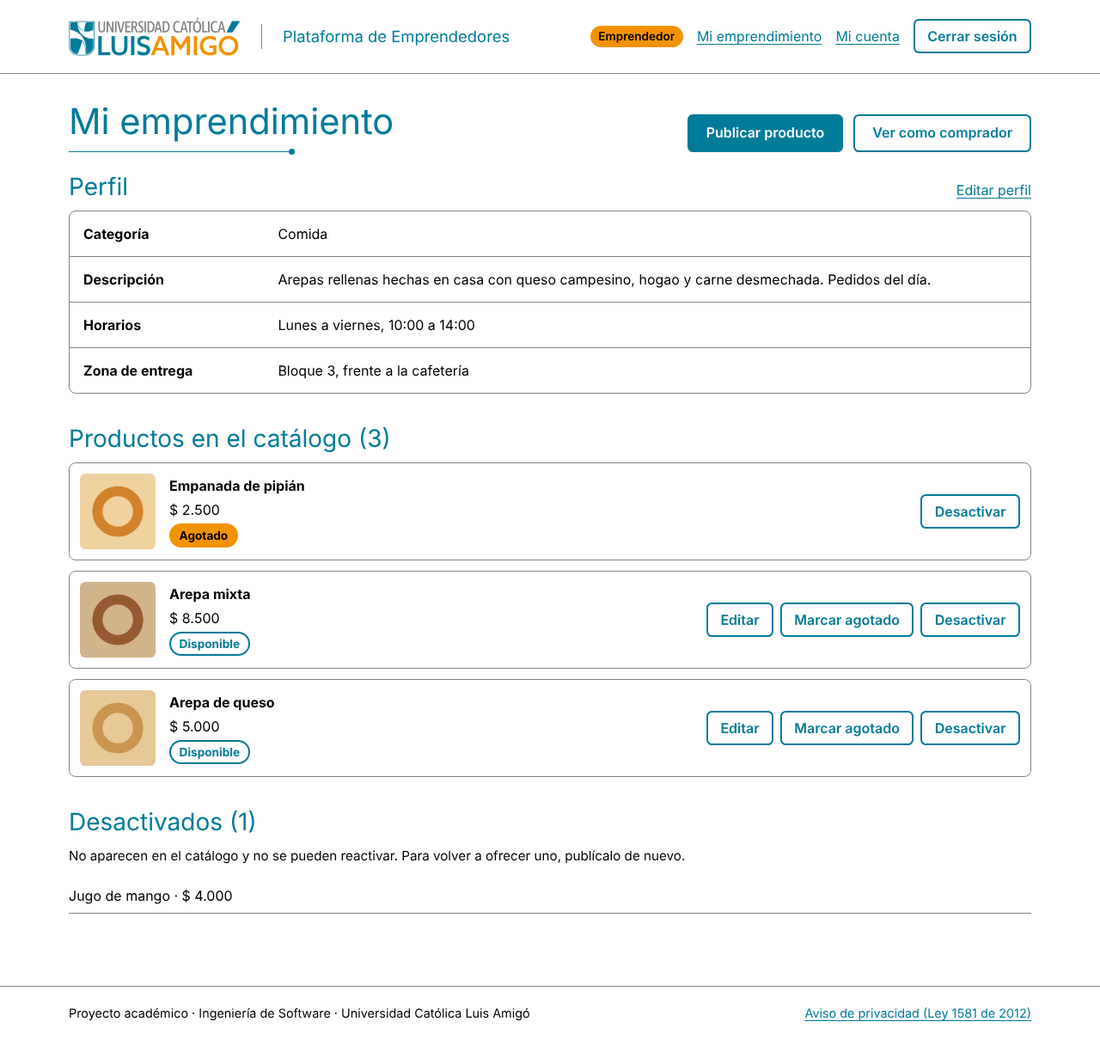
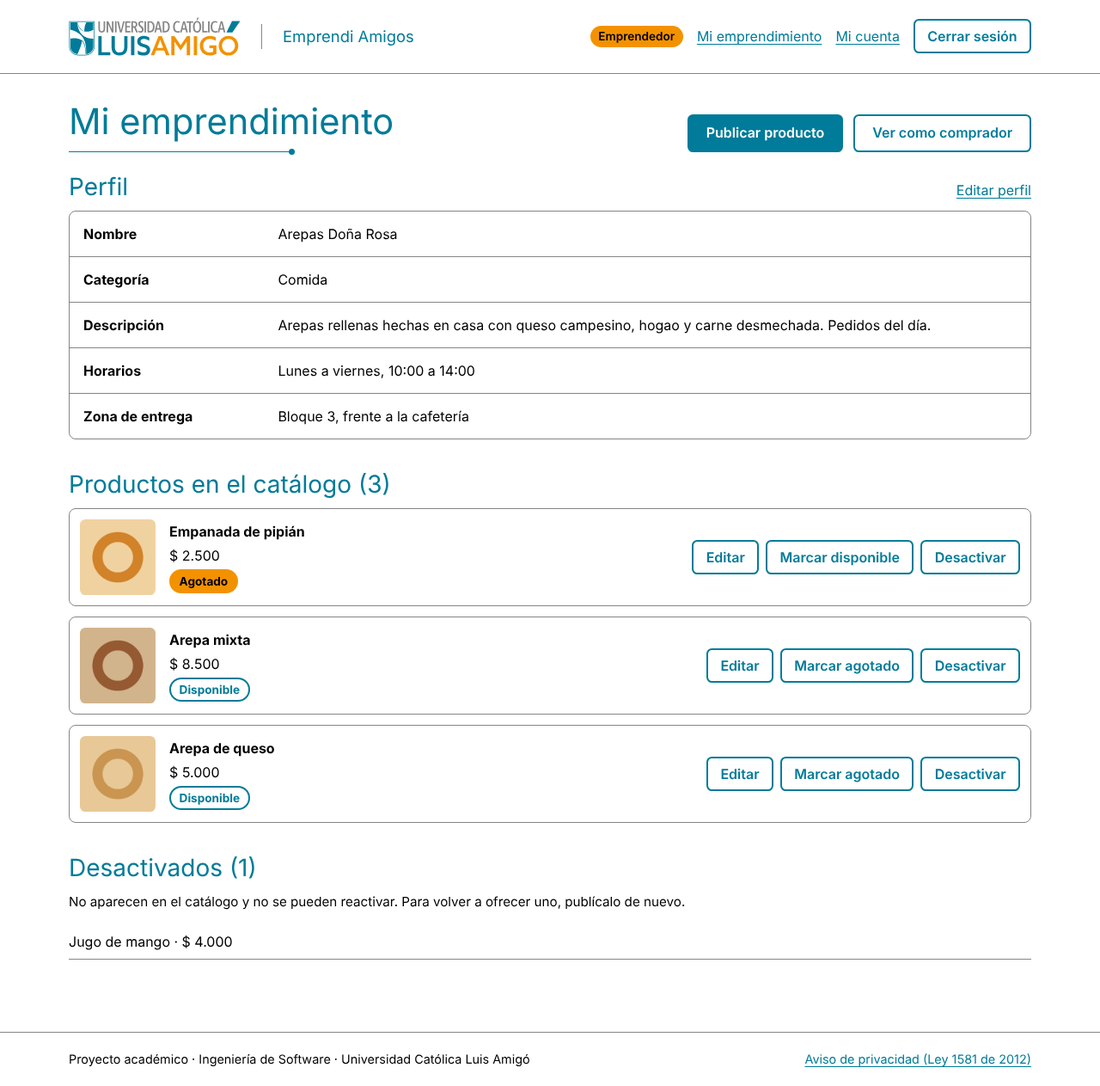
Docs: registro de cambios CC-01 a CC-05, ES1 v2 y documentos de E1 y E2 actualizados

diff --git a/docs/epica-2/EPICA-2.md b/docs/epica-2/EPICA-2.md
@@ -2,7 +2,7 @@
 
 **Proyecto:** Plataforma de Emprendedores (MVP) · Universidad Católica Luis Amigó
 **Fuentes:** Entregable 1 (HU-04 a HU-06, RF-05 a RF-08, RNF), Entregable 2 (CU-04 a CU-06, diagramas A2, ES1 y S3, modelo de dominio, reglas RN-05 a RN-09, decisión D5) y *Manual de Identidad Visual* versión 02.
-**Estado:** entregada para revisión. No se ha iniciado la Épica 3.
+**Estado:** entregada para revisión, con los cambios aprobados el 06/11/2026: CC-02 (reactivación), CC-03 (nombre del emprendimiento) y CC-04 (plataforma **Emprendi Amigos**). Ver la sección 8 y el [registro de cambios](../registro-de-cambios.md). No se ha iniciado la Épica 3.
 
 ---
 
@@ -47,22 +47,23 @@ Cuando exista el catálogo, los casos CP-07.x de la Épica 3 repetirán la verif
 | Clase del diagrama | Código | Nota |
 |---|---|---|
 | `Categoria(nombre)` | `Categoria.nombre` | Se crean con una migración: Comida, Artesanías, Videojuegos, Ocio y Otros |
-| `Emprendimiento(descripcion, horarios, zonaEntrega)` | `descripcion` (500), `horarios` (120), `zona_entrega` (120), `categoria`, `propietario` | Usuario 1 — 0..1 Emprendimiento (S-2): `OneToOneField` |
+| `Emprendimiento(nombre, descripcion, horarios, zonaEntrega)` | `nombre` (80, CC-03), `descripcion` (500), `horarios` (120), `zona_entrega` (120), `categoria`, `propietario` | Usuario 1 — 0..1 Emprendimiento (S-2): `OneToOneField` |
 | `Producto(nombre, foto, precioReferencia, estado)` | `nombre` (80), `foto`, `precio_referencia` (pesos enteros), `estado`, `codigo` | `codigo` es un UUID para las rutas. `existencias` y `umbralStockBajo` se agregan en E5 |
 | `EstadoProducto` | `DISPONIBLE`, `AGOTADO`, `DESACTIVADO` | Estado inicial: `DISPONIBLE` |
-| Operaciones `crearPerfil()`, `editarPerfil()`, `publicar()`, `editar()`, `marcarAgotado()`, `desactivar()` | `servicios.guardar_perfil`, `publicar_producto`, `editar_producto`, `marcar_agotado`, `desactivar_producto` | Las transiciones se validan en el modelo |
+| Operaciones `crearPerfil()`, `editarPerfil()`, `publicar()`, `editar()`, `marcarAgotado()`, `marcarDisponible()` (CC-02), `desactivar()` | `servicios.guardar_perfil`, `publicar_producto`, `editar_producto`, `marcar_agotado`, `marcar_disponible`, `desactivar_producto` | Las transiciones se validan en el modelo |
 
-### 2.2 Diagrama de estados ES1 implementado
+### 2.2 Diagrama de estados ES1 implementado (versión 2, con CC-02)
 
 | Origen | Evento | Destino | Dónde |
 |---|---|---|---|
 | (inicio) | Publicar producto | Disponible | `publicar_producto` |
-| Disponible | Editar (por ejemplo, el precio) | Disponible | `Producto.validar_edicion` |
+| Disponible o Agotado | Editar (por ejemplo, el precio) | El mismo estado | `Producto.validar_edicion` |
 | Disponible | Marcar agotado | Agotado | `Producto.marcar_agotado` |
+| Agotado | Marcar disponible (CC-02) | Disponible | `Producto.marcar_disponible` |
 | Disponible o Agotado | Desactivar | Desactivado | `Producto.desactivar` (con confirmación) |
-| Agotado o Desactivado | Cualquier otra acción | — | Se rechaza con un mensaje (`TransicionNoPermitida`) |
+| Desactivado | Cualquier acción | — | Se rechaza con un mensaje (`TransicionNoPermitida`) |
 
-Como dice la nota de ES1, el Entregable 1 no define una reactivación. Por eso un producto agotado no vuelve a *Disponible* y uno desactivado no cambia más. Ver el punto 1 de la sección 7.1.
+*Desactivado* sigue siendo definitivo: así el dueño no puede deshacer una desactivación del administrador (HU-22). El diagrama actualizado está en [`docs/diagramas/ES1-producto-v2.puml`](../diagramas/ES1-producto-v2.puml) y reemplaza la figura 7 del Entregable 2.
 
 La salida de inventario que deja las existencias en 0 (HU-16) usará `marcar_agotado` cuando se construya E5.
 
@@ -81,6 +82,7 @@ La salida de inventario que deja las existencias en 0 (HU-16) usará `marcar_ago
 | `/emprendimiento/productos/nuevo/` | GET, POST | HU-05 · RF-06 |
 | `/emprendimiento/productos/<código>/editar/` | GET, POST | HU-06 · RF-07 |
 | `/emprendimiento/productos/<código>/agotado/` | POST | HU-06 · RF-08 |
+| `/emprendimiento/productos/<código>/disponible/` | POST | CC-02 · RF-08 |
 | `/emprendimiento/productos/<código>/desactivar/` | GET (confirmar), POST | HU-06 · RF-08 |
 
 Todas exigen el rol Emprendedor. Un comprador o un administrador reciben 403; sin sesión, se pide iniciarla.
@@ -93,10 +95,10 @@ Todas exigen el rol Emprendedor. Un comprador o un administrador reciben 403; si
 
 | RF | Requerimiento | Cómo se cumple | Prueba |
 |---|---|---|---|
-| RF-05 | Crear el perfil del emprendimiento (descripción, categoría, horarios y zona de entrega) | `PerfilForm` con los cuatro campos obligatorios (RN-06); un perfil por emprendedor; el mismo formulario edita | CP-04.1 a CP-04.3 |
+| RF-05 | Crear el perfil del emprendimiento (nombre —CC-03—, descripción, categoría, horarios y zona de entrega) | `PerfilForm` con los cinco campos obligatorios (RN-06); un perfil por emprendedor; el mismo formulario edita | CP-04.1 a CP-04.5 |
 | RF-06 | Publicar un producto con foto (hasta 5 MB) y precio de referencia | `ProductoForm` + `publicar_producto`. La foto se valida por tamaño y por contenido real (JPG, PNG o WebP). El precio se acepta como `5000`, `5.000` o `$ 5.000` y se rechaza si es negativo o tiene letras | CP-05.1 a CP-05.5 |
-| RF-07 | Editar un producto | `editar_producto`: nombre, precio y, de forma opcional, una foto nueva (la anterior se borra del almacenamiento) | CP-06.1 |
-| RF-08 | Desactivar un producto o marcarlo como agotado | `marcar_agotado` y `desactivar_producto`, según ES1 y solo por POST; la desactivación pide confirmación | CP-06.2, CP-06.3, CP-06.5 |
+| RF-07 | Editar un producto | `editar_producto`: nombre, precio y, de forma opcional, una foto nueva (la anterior se borra del almacenamiento). Con CC-02 también se editan los agotados | CP-06.1, CP-06.7 |
+| RF-08 | Desactivar un producto, marcarlo como agotado o (CC-02) volver a marcarlo disponible | `marcar_agotado`, `marcar_disponible` y `desactivar_producto`, según ES1 v2 y solo por POST; la desactivación pide confirmación | CP-06.2, CP-06.3, CP-06.5, CP-06.6 |
 
 ### 3.2 Requerimientos no funcionales
 
@@ -105,7 +107,7 @@ Todas exigen el rol Emprendedor. Un comprador o un administrador reciben 403; si
 | RNF-03 Compatibilidad | Must | Panel, formularios, vista previa y tarjetas responsive; verificado a 360, 768 y 1280 px sin desplazamiento horizontal | CP-RNF03 |
 | RNF-04 Seguridad | Must | CSRF en todos los formularios; cambios de estado solo por POST; se valida el contenido real de la foto (un HTML o SVG disfrazado de `.jpg` se rechaza) y se guarda siempre como JPEG con nombre aleatorio | CP-05.4, CP-06.5 |
 | RNF-05 Privacidad | Must | El emprendedor se identifica por la sesión; un producto ajeno responde 403 y no cambia; panel y vista previa muestran solo lo propio; las rutas usan un código no secuencial | CP-06.4, CP-RNF05 |
-| RNF-06 Cumplimiento legal | Must | Aviso de privacidad versión 1.1: incluye el perfil y los productos y su publicación en el catálogo. Antes de guardar cada foto se borran sus metadatos EXIF, incluida la ubicación GPS. El formulario del perfil avisa que será público. Una prueba falla si se agrega un dato no previsto en el modelo | CP-RNF06 |
+| RNF-06 Cumplimiento legal | Must | Aviso de privacidad versión 1.2: incluye el perfil (con su nombre) y los productos y su publicación en el catálogo. Antes de guardar cada foto se borran sus metadatos EXIF, incluida la ubicación GPS. El formulario del perfil avisa que será público. Una prueba falla si se agrega un dato no previsto en el modelo | CP-RNF06 |
 | RNF-08 Mantenibilidad | Must | Módulo propio `apps/perfil_productos`, commits por historia, documento de la épica y README actualizados | CP-RNF08 |
 | RNF-09 Escalabilidad | Should | Con 100 usuarios y 300 productos, el contrato del catálogo responde completo y el panel usa el mismo número de consultas con 10 o con más de 100 productos | CP-RNF09 |
 | RNF-11 Accesibilidad | Could | Cada foto tiene como texto alternativo el nombre del producto; los estados se leen como texto y no solo por color; cada campo tiene etiqueta; los botones repetidos nombran su producto para los lectores de pantalla | CP-RNF11 |
@@ -160,13 +162,15 @@ Los componentes nuevos usan solo los tokens de `static/css/marca.css`. La prueba
 
 | # | Supuesto (el Entregable 1 no lo define) | Decisión |
 |---|---|---|
-| S-E2-1 | Lista de categorías | Comida, Artesanías, Videojuegos y Ocio (nombradas en el alcance) más "Otros" por el "etc." |
-| S-E2-2 | Precio de 0 (punto abierto B.2) | Se acepta, porque RN-07 solo exige "no negativo" |
+| S-E2-1 | Lista de categorías | Comida, Artesanías, Videojuegos y Ocio (nombradas en el alcance) más "Otros" por el "etc.". **Confirmado (CC-05)** |
+| S-E2-2 | Precio de 0 (punto abierto B.2) | Se acepta, porque RN-07 solo exige "no negativo". **Confirmado (CC-05)** |
 | S-E2-3 | Formatos de foto | JPG, PNG y WebP; GIF y SVG no |
 | S-E2-4 | Longitudes máximas | Descripción 500, horarios 120, zona 120 y nombre del producto 80 caracteres |
 | S-E2-5 | Fotos en producción | `MEDIA_ROOT` configurable con `DJANGO_MEDIA_ROOT`; en el Sprint 4 se define quién las sirve (servidor web o almacenamiento de objetos) y un límite del cuerpo de la petición de unos 6 MB en el servidor web |
 
-### 6.1 Puntos que necesitan decisión del equipo
+### 6.1 Puntos que necesitaban decisión del equipo (resueltos el 06/11/2026)
+
+Los puntos 1 a 3 se aprobaron como CC-02 y CC-03 (sección 8). El punto 4 queda informado: Mi cuenta avisa a quien aceptó una versión anterior del aviso, que ahora es la 1.2.
 
 1. **Reactivación (punto abierto B.2 y nota de ES1).** Hoy un producto agotado no puede volver a *Disponible*, así que quien vende comida a diario tendría que publicarlo de nuevo cada día. Recomiendo aprobar la transición *Agotado → Disponible* como solicitud de cambio (CC-02, unos 30 minutos más actualizar ES1). La desactivación debería seguir siendo definitiva, para que no se pueda deshacer una desactivación del administrador (HU-22).
 2. **Editar un producto agotado.** ES1 solo modela la edición en *Disponible*, y así quedó implementado. Si se aprueba el punto 1, se resuelve en el mismo cambio.
@@ -178,7 +182,7 @@ Los componentes nuevos usan solo los tokens de `static/css/marca.css`. La prueba
 | Condición | Estado |
 |---|---|
 | El código está en la rama principal | Sí, al integrar `feature/E2-perfil-y-productos` en `main` |
-| Todos los escenarios Given-When-Then pasan | Sí (155 pruebas: 88 de E1 y 67 de E2) |
+| Todos los escenarios Given-When-Then pasan | Sí (164 pruebas: 90 de E1 y 74 de E2, con CC-02 a CC-04) |
 | No hay errores bloqueantes | Sí |
 | Desplegada en el entorno de pruebas | **Pendiente**, igual que en E1: aún no hay entorno de pruebas |
 
@@ -201,7 +205,7 @@ Para los pasos manuales: registra una cuenta **Emprendedor** (por ejemplo `empre
 
 | Puerta | Comando o acción | Resultado exigido |
 |---|---|---|
-| G1 Suite automática | `python manage.py test -v 2` | `Ran 155 tests` y `OK` |
+| G1 Suite automática | `python manage.py test -v 2` | `Ran 164 tests` y `OK` |
 | G2 Seguridad de producción | `check --deploy --settings=config.settings.prod` (ver README) | `System check identified no issues (0 silenced).` |
 | G3 Modelo y migraciones | `python manage.py makemigrations --check --dry-run` | `No changes detected` |
 | G4 Casos manuales | Tabla 7.3, columna "Tipo" con M | Todos cumplen su criterio |
@@ -218,10 +222,11 @@ Tipo: **A** = automático (incluido en G1), **M** = manual. CP-04.x a CP-06.4 so
 
 | ID | Escenario | Tipo | Pasos | Resultado esperado | Aprueba si / No aprueba si |
 |---|---|---|---|---|---|
-| CP-04.1 | Perfil válido | A+M | 1. Ingresar como `emprende1`. 2. "Mi emprendimiento" → "Crear perfil". 3. Completar descripción, categoría Comida, horarios y zona. 4. "Publicar perfil". 5. "Ver como comprador". | "El perfil de tu emprendimiento quedó publicado…"; la vista previa muestra los cuatro datos | **Aprueba** si el perfil se crea y se ve en la vista previa. **No aprueba** en otro caso |
-| CP-04.2 | Campo obligatorio vacío | A+M | Repetir dejando vacío, uno a la vez, cada campo (también con solo espacios) | Mensaje específico junto al campo ("Escribe la descripción…", "Elige la categoría…", "Indica tus horarios…", "Indica la zona de entrega.") y en el resumen; no se crea el perfil | **Aprueba** si cada campo vacío se señala por su nombre. **No aprueba** si se guarda o el error no indica el campo |
+| CP-04.1 | Perfil válido | A+M | 1. Ingresar como `emprende1`. 2. "Mi emprendimiento" → "Crear perfil". 3. Completar nombre ("Arepas Doña Rosa"), descripción, categoría Comida, horarios y zona. 4. "Publicar perfil". 5. "Ver como comprador". | "El perfil de tu emprendimiento quedó publicado…"; la vista previa se titula con el nombre y muestra los demás datos | **Aprueba** si el perfil se crea y se ve en la vista previa. **No aprueba** en otro caso |
+| CP-04.2 | Campo obligatorio vacío | A+M | Repetir dejando vacío, uno a la vez, cada campo (también con solo espacios) | Mensaje específico junto al campo ("Escribe el nombre…", "Escribe la descripción…", "Elige la categoría…", "Indica tus horarios…", "Indica la zona de entrega.") y en el resumen; no se crea el perfil | **Aprueba** si cada campo vacío se señala por su nombre. **No aprueba** si se guarda o el error no indica el campo |
 | CP-04.3 | Edición del perfil | A+M | "Editar perfil", cambiar a Artesanías y otra descripción; guardar; abrir la vista previa | "Guardamos los cambios de tu perfil"; la vista previa muestra lo nuevo y ya no lo anterior; sigue habiendo un solo perfil | **Aprueba** si se actualiza sin duplicarse |
 | CP-04.4 | Acceso por rol | A | Comprador y usuario sin sesión intentan abrir `/emprendimiento/perfil/` | 403 y pedir inicio de sesión, respectivamente | **Aprueba** si ninguno crea un perfil |
+| CP-04.5 | Nombre del emprendimiento (CC-03) | A+M | Escribir un nombre de más de 80 caracteres; revisar el panel y la vista previa | "El nombre puede tener hasta 80 caracteres…"; el panel y el título de la vista previa muestran el nombre y ya no "Emprendimiento de comida" | **Aprueba** si se cumple |
 
 #### HU-05 · Publicar un producto (Must · RF-06)
 
@@ -242,7 +247,10 @@ Tipo: **A** = automático (incluido en G1), **M** = manual. CP-04.x a CP-06.4 so
 | CP-06.2 | Marcar como agotado | A+M | "Marcar agotado" en un producto disponible; ver la vista previa | "…quedó marcado como agotado…"; en la vista previa sigue visible con la etiqueta **Agotado** | **Aprueba** si sigue visible con la etiqueta |
 | CP-06.3 | Desactivación | A+M | "Desactivar" → confirmar "Sí, desactivar"; ver la vista previa | Pide confirmación ("no se puede deshacer"); "…quedó desactivado y ya no aparece en el catálogo"; la vista previa ya no lo muestra; el panel lo lista en "Desactivados" sin acciones | **Aprueba** si desaparece de la vista previa |
 | CP-06.4 | Producto ajeno | A+M | 1. Con `emprende1`, copiar la URL de "Editar" de un producto. 2. Cerrar sesión, ingresar con `emprende2` (con perfil) y abrir esa URL. 3. Probar también la de "Desactivar". | "No tienes permiso para ver esta página" (403); el producto de `emprende1` no cambia | **Aprueba** si se deniega en todos los casos. **No aprueba** si `emprende2` ve o modifica algo |
-| CP-06.5 | Reglas de ES1 | A | Intentar editar o volver a agotar un producto agotado; cambiar un desactivado; enviar un cambio de estado por GET | Se informa que no está permitido y el estado no cambia; GET responde 405 | **Aprueba** si ninguna transición fuera de ES1 ocurre |
+| CP-06.5 | Reglas de ES1 v2 | A | Volver a agotar un agotado; marcar disponible uno disponible; editar, agotar o reactivar un desactivado; enviar un cambio de estado por GET | Se informa que no está permitido y el estado no cambia; GET responde 405 | **Aprueba** si ninguna transición fuera de ES1 v2 ocurre |
+| CP-06.6 | Volver a estar disponible (CC-02) | A+M | En un producto agotado, pulsar "Marcar disponible"; ver la vista previa | "…volvió a estar disponible en el catálogo"; la vista previa lo muestra como **Disponible** | **Aprueba** si regresa a Disponible |
+| CP-06.7 | Editar un agotado (CC-02) | A+M | En un producto agotado, "Editar" y cambiar el precio | Se guarda el precio y el producto sigue **Agotado** | **Aprueba** si cambia el precio y no el estado |
+| CP-06.8 | Desactivado definitivo (CC-02) | A+M | Revisar en el panel un producto desactivado | Aparece en "Desactivados" sin botones; intentar reactivarlo (A) responde "no se puede reactivar" | **Aprueba** si no hay forma de reactivarlo |
 
 #### RN-09 y RNF
 
@@ -251,7 +259,8 @@ Tipo: **A** = automático (incluido en G1), **M** = manual. CP-04.x a CP-06.4 so
 | CP-RN09 | Contrato del catálogo | A | Productos en los tres estados de dos emprendimientos | El catálogo incluye Disponible y Agotado, oculta Desactivado; cada producto lleva la categoría de su emprendimiento; una sola consulta | **Aprueba** si la suite pasa |
 | CP-RNF03 | Responsive (Must) | A+M | Panel, perfil, publicar (con errores) y vista previa a 360 px en Chrome, Edge, Firefox y Safari; opcional `EMPRENDEDOR_CORREO=… EMPRENDEDOR_CONTRASENA=… node scripts/verificar_interfaz.mjs` | Sin desplazamiento horizontal; botones y fichas usables con el dedo | **Aprueba** si se cumple en los 4 navegadores |
 | CP-RNF05 | Privacidad (Must) | A+M | Como comprador, abrir `/emprendimiento/`; como `emprende2`, revisar su panel y su vista previa | 403 para el comprador; `emprende2` no ve productos de `emprende1` | **Aprueba** si nadie ve ni modifica lo ajeno |
-| CP-RNF06 | Ley 1581 (Must) | A+M | Abrir `/privacidad/`; en Mi cuenta de una cuenta registrada antes de E2 | Aviso versión 1.1 con el perfil, los productos, su publicación en el catálogo y la eliminación de la ubicación GPS; aviso de actualización en Mi cuenta | **Aprueba** si están ambos |
+| CP-RNF06 | Ley 1581 (Must) | A+M | Abrir `/privacidad/`; en Mi cuenta de una cuenta registrada antes del cambio | Aviso versión 1.2 con el perfil (nombre incluido), los productos, su publicación en el catálogo y la eliminación de la ubicación GPS; aviso de actualización en Mi cuenta | **Aprueba** si están ambos |
+| CP-CC04 | Nombre de la plataforma (CC-04) | A+M | Revisar el encabezado, el título de la pestaña y el correo de recuperación (en la terminal) | Dicen "Emprendi Amigos" y no "Plataforma de Emprendedores" | **Aprueba** si se cumple en los tres |
 | CP-RNF08 | Repositorio (Must) | M | `git log --oneline` y README | Commits que nombran HU-04, HU-05 y HU-06; README con E2 y la dependencia Pillow | **Aprueba** si existen ambos |
 | CP-RNF09 | 300 productos (Should) | A | 100 usuarios, 30 emprendimientos y 300 productos | El catálogo devuelve los 270 visibles; el panel hace las mismas consultas con 10 o con más de 100 productos | **Aprueba** si la suite pasa |
 | CP-RNF11 | Accesibilidad (Could) | A+M | Publicar y mantener un producto solo con el teclado; revisar el texto alternativo de las fotos | Se completa sin mouse; cada foto tiene como `alt` el nombre del producto; los estados se leen como texto | **Aprueba** si se cumple |
@@ -260,13 +269,13 @@ Tipo: **A** = automático (incluido en G1), **M** = manual. CP-04.x a CP-06.4 so
 
 | Archivo (`apps/perfil_productos/tests/`) | Pruebas | Casos que cubre |
 |---|---|---|
-| `test_reglas.py` | 18 | RN-07 (precio y foto, valores límite del plan 4.1.4), CP-05.6, ES1 |
-| `test_hu04_perfil.py` | 11 | CP-04.1 a CP-04.4, categorías iniciales |
+| `test_reglas.py` | 21 | RN-07 (precio y foto, valores límite del plan 4.1.4), CP-05.6, ES1 v2 |
+| `test_hu04_perfil.py` | 13 | CP-04.1 a CP-04.5, categorías iniciales |
 | `test_hu05_publicar.py` | 10 | CP-05.1 a CP-05.5 |
-| `test_hu06_mantener.py` | 13 | CP-06.1 a CP-06.5 |
+| `test_hu06_mantener.py` | 15 | CP-06.1 a CP-06.8 |
 | `test_catalogo_contrato.py` | 4 | CP-RN09 |
 | `test_rnf.py` | 11 | CP-RNF03, CP-RNF05, CP-RNF06, CP-RNF09, CP-RNF11 |
-| **Total E2** | **67** | (más las 88 de E1 = 155) |
+| **Total E2** | **74** | (más las 90 de E1, que incluyen las 2 de CP-CC04 = 164) |
 
 Antes de entregar, la suite se probó contra cuatro defectos introducidos a propósito, y todos se detectaron:
 
@@ -276,3 +285,23 @@ Antes de entregar, la suite se probó contra cuatro defectos introducidos a prop
 - permitir editar productos agotados: 2 fallos.
 
 Al revertir los cambios, las 155 pruebas volvieron a pasar.
+
+---
+
+## 8. Cambios aprobados el 06/11/2026
+
+| CC | Qué cambió en el código | Pruebas |
+|---|---|---|
+| CC-02 Reactivación | `Producto.marcar_disponible()` (*Agotado → Disponible*), ruta `/productos/<código>/disponible/` (solo POST y solo el dueño), botón "Marcar disponible" en el panel. `validar_edicion` permite editar agotados. *Desactivado* sigue siendo definitivo | CP-06.5 a CP-06.8 y 5 pruebas unitarias de ES1 v2 |
+| CC-03 Nombre del emprendimiento | Campo `Emprendimiento.nombre` obligatorio (80 caracteres) en el formulario, el panel y el título de la vista previa. La migración `0003` asigna "Mi emprendimiento" a los perfiles existentes. Aviso de privacidad 1.2 | CP-04.1, CP-04.2, CP-04.5 y CP-RNF06 |
+| CC-04 Emprendi Amigos | `NOMBRE_PLATAFORMA = "Emprendi Amigos"` en el encabezado, los títulos y el correo de recuperación | CP-CC04 (2 pruebas en `apps/cuentas/tests/test_rnf_interfaz.py`) |
+| CC-05 Supuestos confirmados | Sin cambios: se mantienen la categoría "Otros" y el precio 0 | — |
+
+Para comprobar las pruebas nuevas se introdujeron dos defectos a propósito, y ambos se detectaron:
+
+- permitir reactivar un producto desactivado: 5 fallos;
+- quitar el nombre del formulario de perfil: 15 fallos.
+
+Al revertirlos, las 164 pruebas volvieron a pasar.
+
+**Artefactos de los Entregables por actualizar** (Word, fuera del repositorio): RF-05, RF-08 y RN-06 en la matriz, los escenarios nuevos de HU-06, la figura 7 (ES1, fuente en `docs/diagramas/ES1-producto-v2.puml`), el atributo `nombre` en la clase `Emprendimiento` y el registro de cambios de la sección 4.2.2. El texto exacto está en [`docs/registro-de-cambios.md`](../registro-de-cambios.md).

diff --git a/docs/registro-de-cambios.md b/docs/registro-de-cambios.md
@@ -1,0 +1,36 @@
+# Registro de cambios
+
+Proceso de la sección 4.2.2 del Entregable 2: registrar, evaluar el impacto, decidir, aplicar en una rama actualizando los artefactos y cerrar cuando pasan las pruebas. Línea base de requerimientos: Entregable 1. Línea base del diseño: Entregable 2.
+
+| ID | Fecha | Cambio | Tipo | Elementos afectados | Horas | Decisión |
+|---|---|---|---|---|---|---|
+| CC-00 | Entregable 1 | Línea base: 22 HU, 24 RF, 11 RNF y 46 h de desarrollo | Línea base | Todos | — | Aprobada |
+| CC-01 | 05/11/2026 | Verificar que quien se registra es dueño del correo institucional (enlace de confirmación) | Requerimiento | RF-01, HU-01, CU-01, A1, S1, CP-01.x | ≈ 2 | **Propuesta, pendiente de decisión** |
+| CC-02 | 06/11/2026 | Reactivación: un producto *Agotado* puede volver a *Disponible* y también se puede editar. *Desactivado* sigue siendo definitivo | Diseño (ES1) y requerimiento (RF-08) | RF-08, HU-06 (escenarios nuevos), CU-06, ES1 (`docs/diagramas/ES1-producto-v2.puml`), RN-08, CP-06.5 a CP-06.7 | ≈ 0,5 | **Aprobada** y aplicada |
+| CC-03 | 06/11/2026 | Nombre obligatorio en el perfil del emprendimiento (hasta 80 caracteres) | Requerimiento | RF-05, HU-04, CU-04, A2, clase `Emprendimiento`, RN-06, aviso de privacidad (versión 1.2), CP-04.1 a CP-04.5 | ≈ 0,5 | **Aprobada** y aplicada |
+| CC-04 | 06/11/2026 | La plataforma se llama **Emprendi Amigos** (antes "Plataforma de Emprendedores", nombre provisional S-E1-7) | Presentación | Encabezado, títulos, correo de recuperación, README | ≈ 0,25 | **Aprobada** y aplicada |
+| CC-05 | 06/11/2026 | Confirmar los supuestos S-E2-1 (categoría "Otros") y S-E2-2 (precio de 0 permitido) | Supuestos de diseño | Anexo B del Entregable 2 | 0 | **Aprobada** (sin cambios de código) |
+
+## Texto actualizado de los artefactos
+
+**RF-05 (CC-03):** Crear el perfil del emprendimiento (nombre, descripción, categoría, horarios y zona de entrega).
+
+**RN-06 (CC-03):** Son obligatorios nombre, descripción, categoría, horarios y zona de entrega.
+
+**RF-08 (CC-02):** Desactivar un producto, marcarlo como agotado o volver a marcarlo como disponible.
+
+**HU-06, escenarios nuevos (CC-02):**
+
+> **Escenario 5: Volver a estar disponible. Dado que** tengo un producto agotado, **cuando** lo marco como disponible, **entonces** el catálogo lo muestra con el estado "Disponible".
+>
+> **Escenario 6: Editar un producto agotado. Dado que** tengo un producto agotado, **cuando** cambio su precio y guardo, **entonces** el catálogo muestra el precio nuevo y el producto sigue agotado.
+
+**HU-04, escenario 2 (CC-03):** el nombre se suma a los campos obligatorios que se señalan si están vacíos.
+
+**ES1 (CC-02):** nueva transición *Agotado → Disponible* ("marcar disponible") y actividad interna "editar" en *Agotado*. *Desactivado* conserva su carácter definitivo. Fuente actualizada: `docs/diagramas/ES1-producto-v2.puml`.
+
+**Clase `Emprendimiento` (CC-03):** nuevo atributo `-nombre : String`.
+
+## Efecto sobre la capacidad (riesgo R1)
+
+CC-02 a CC-04 suman cerca de 1,25 h. El Entregable 1 exige compensar las horas nuevas con una historia de menor prioridad (línea de corte por prioridad). Se propone descontarlas de la holgura de HU-10 (Should, búsqueda), que sigue sin sprint asignado.

diff --git a/README.md b/README.md
@@ -1,4 +1,4 @@
-# Plataforma de Emprendedores · Universidad Católica Luis Amigó
+# Emprendi Amigos · Universidad Católica Luis Amigó
 
 MVP web donde los emprendedores de la comunidad universitaria publican su portafolio y llevan el control de su inventario y sus finanzas, y donde compradores (estudiantes, docentes, personal administrativo y directivos) encuentran lo que se vende en el campus.
 
@@ -46,7 +46,7 @@ python manage.py promover_administrador correo@amigo.edu.co
 python manage.py test -v 2
 ```
 
-Resultado esperado: `Ran 155 tests` y `OK` (88 de E1 y 67 de E2). Las baterías completas (automáticas y manuales) con sus criterios de aprobación están en [docs/epica-1/EPICA-1.md](docs/epica-1/EPICA-1.md#6-batería-de-pruebas-de-validación) y [docs/epica-2/EPICA-2.md](docs/epica-2/EPICA-2.md#7-batería-de-pruebas-de-validación).
+Resultado esperado: `Ran 164 tests` y `OK` (90 de E1 y 74 de E2). Las baterías completas (automáticas y manuales) con sus criterios de aprobación están en [docs/epica-1/EPICA-1.md](docs/epica-1/EPICA-1.md#6-batería-de-pruebas-de-validación) y [docs/epica-2/EPICA-2.md](docs/epica-2/EPICA-2.md#7-batería-de-pruebas-de-validación).
 
 Verificación de la configuración de producción (RNF-04):
 
@@ -64,6 +64,8 @@ node scripts/verificar_interfaz.mjs chromium   # también: firefox, webkit
 ```
 
 Para incluir las pantallas del emprendedor, define `EMPRENDEDOR_CORREO` y `EMPRENDEDOR_CONTRASENA` de una cuenta emprendedora con perfil.
+
+Los cambios aprobados sobre los Entregables se registran en [docs/registro-de-cambios.md](docs/registro-de-cambios.md).
 
 ## Estructura
 

diff --git a/docs/epica-1/EPICA-1.md b/docs/epica-1/EPICA-1.md
@@ -153,7 +153,7 @@ El Entregable 2 dejó la tecnología para el Sprint 1 (S-9). Estas son las decis
 | S-E1-4 | Vigencia del enlace de recuperación | 1 hora y un solo uso |
 | S-E1-5 | Duración de la sesión | 12 horas |
 | S-E1-6 | Tipografías corporativas | Son licenciadas; no se incluyen archivos de fuente. Si la universidad provee la licencia web, se agregan con `@font-face` sin cambiar el resto |
-| S-E1-7 | Nombre del producto | "Plataforma de Emprendedores" como nombre descriptivo provisional, configurable en `NOMBRE_PLATAFORMA` |
+| S-E1-7 | Nombre del producto | "Plataforma de Emprendedores" como nombre descriptivo provisional, configurable en `NOMBRE_PLATAFORMA`. **Resuelto por CC-04: "Emprendi Amigos"** |
 
 ### 5.1 Puntos que necesitan validación del equipo
 
